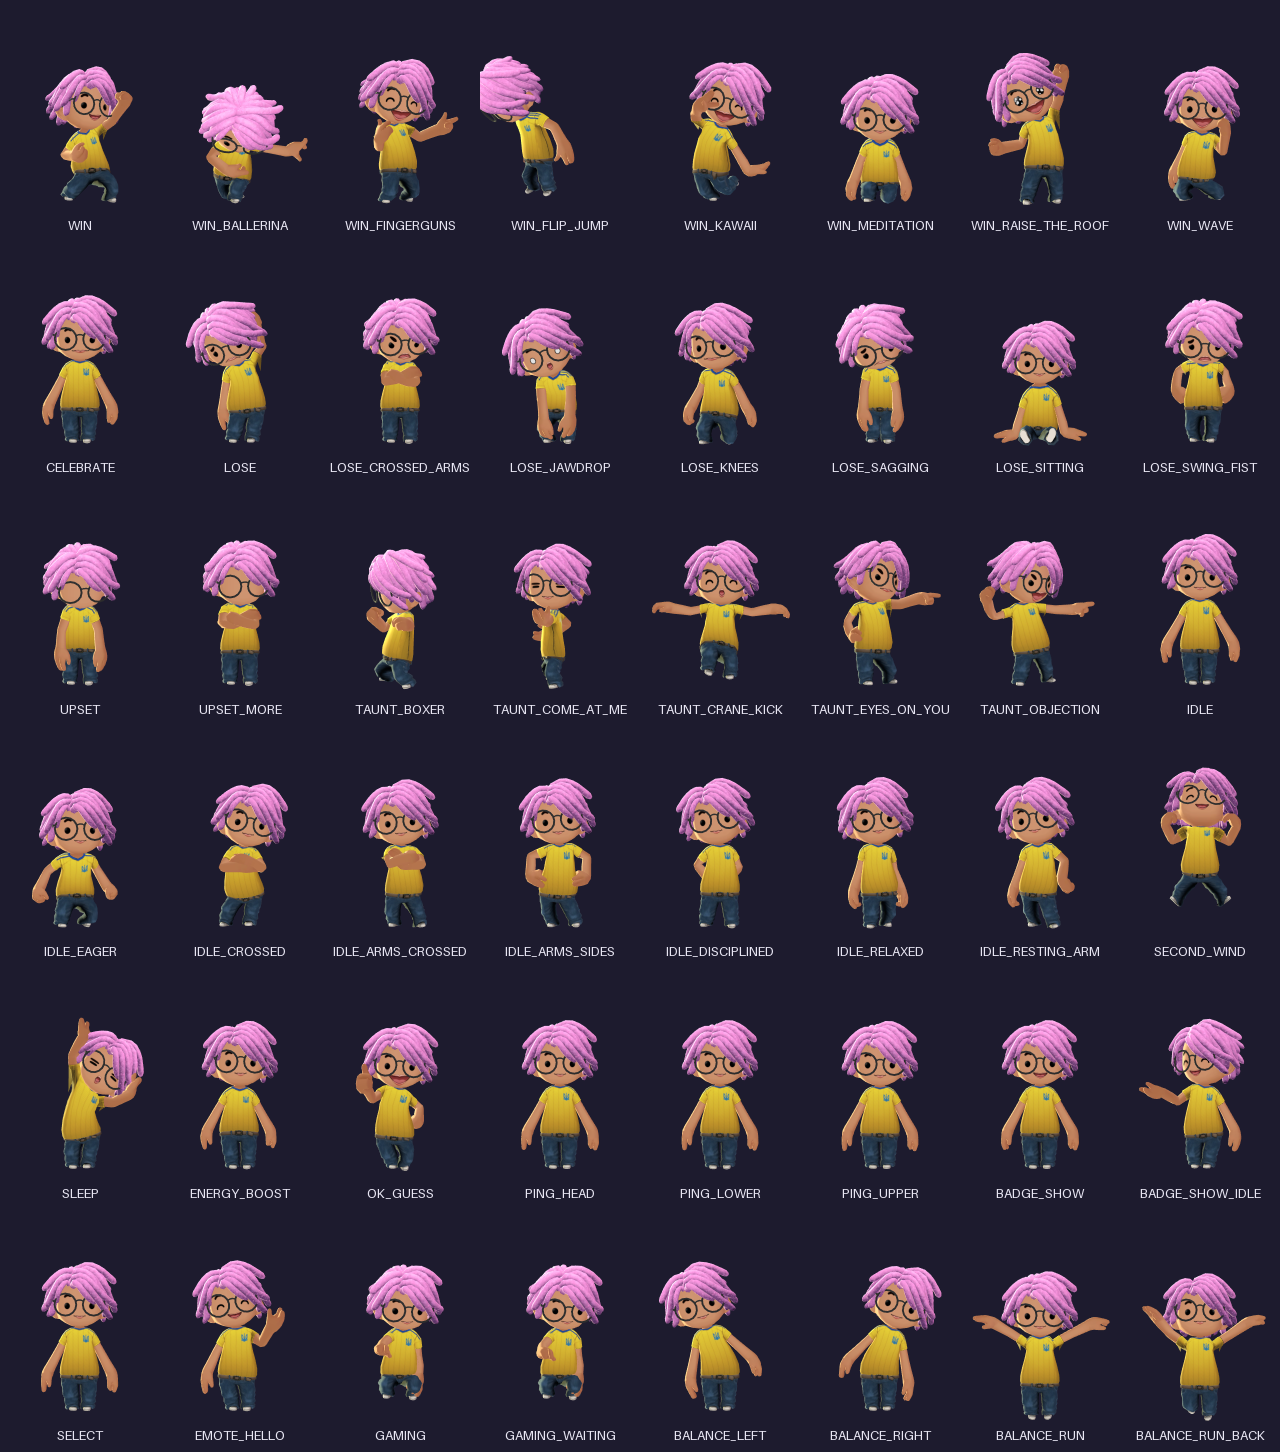
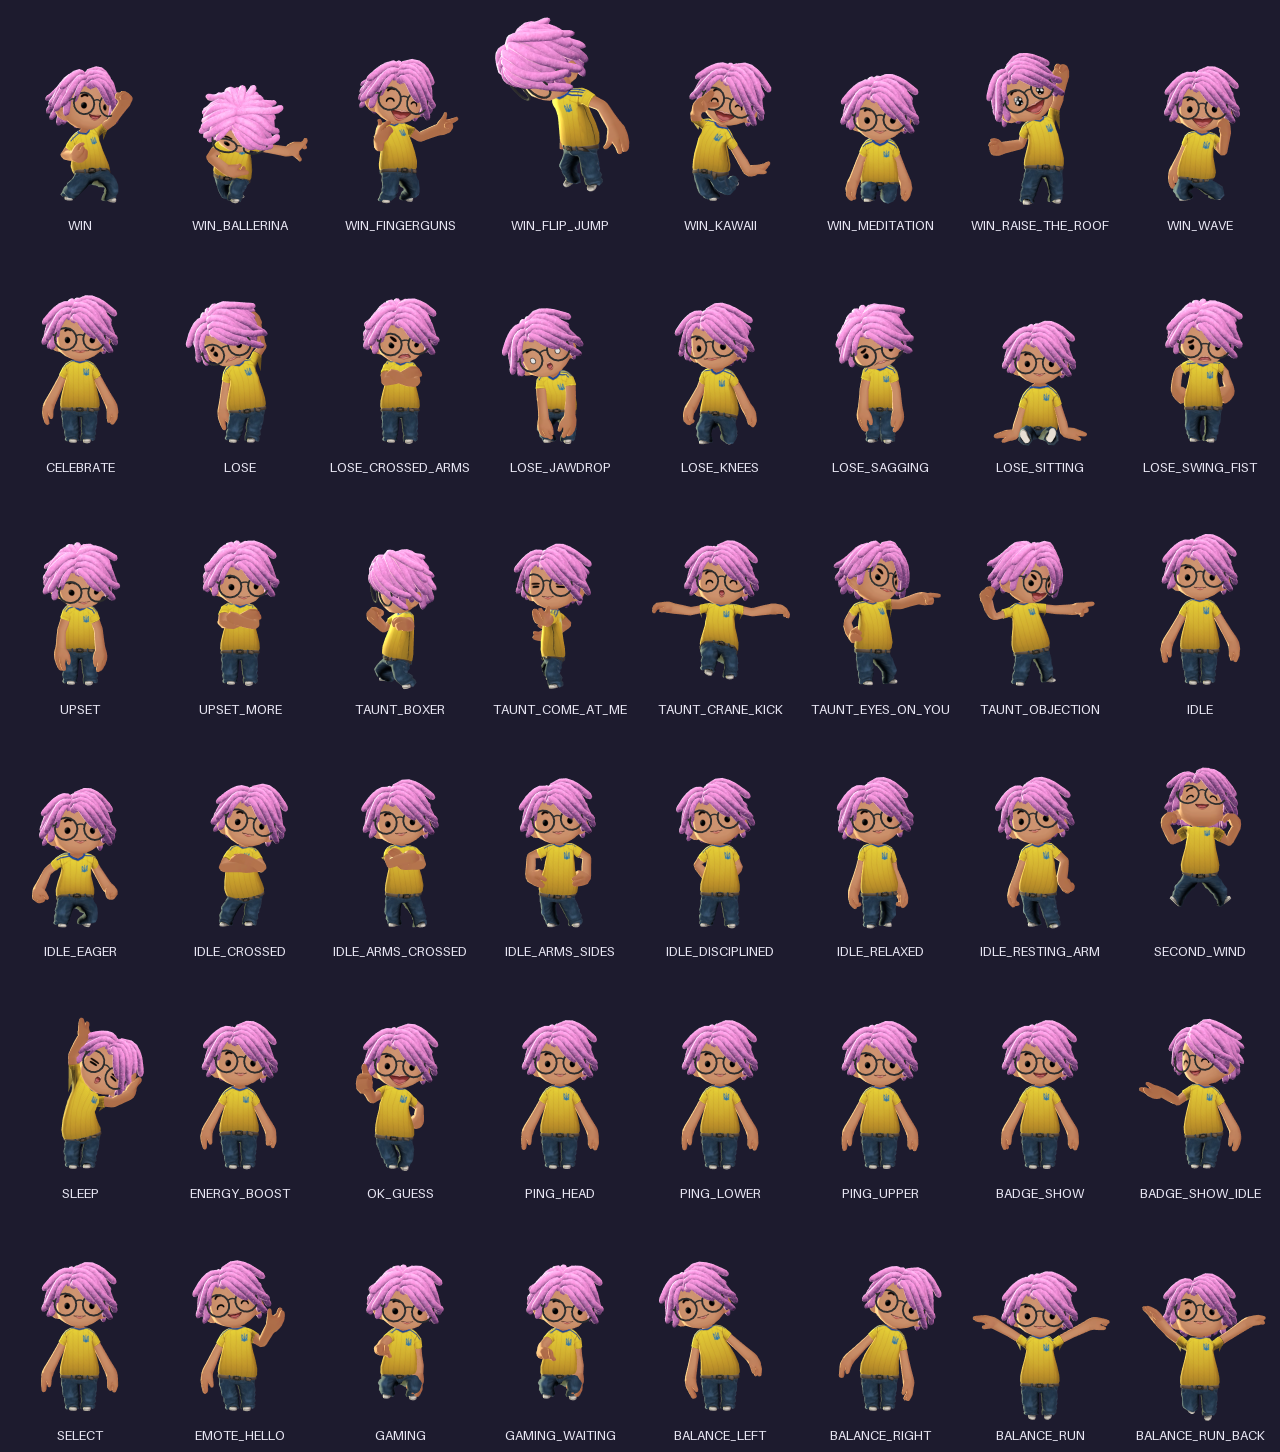
Fix blank faces in UPSET and UPSET_MORE
These two clips carry face-expression data from another rig: decoded, it
points ~54 cells outside the 8-cell eye/mouth sprite strips, so the face
rendered blank. Out-of-range offsets now fall back to the neutral face.
All other 46 built-in clips have valid face data.

The README gallery is regenerated with the fix, and WIN_FLIP_JUMP's tile
uses fit framing since the clip leaves the fixed frame mid-flip.

Claude-Session: https://claude.ai/code/session_01NMCpD3UDkpVkhmUTduVi11

Changed region(s): [[0.375, 0.0, 0.5, 0.155]]

diff --git a/src/geoguessr_avatar/web/avatar.js b/src/geoguessr_avatar/web/avatar.js
@@ -211,7 +211,10 @@ function faceOffsets(track, time) {
   const q = new THREE.Quaternion(v[4 * i], v[4 * i + 1], v[4 * i + 2], v[4 * i + 3]);
   const e = new THREE.Euler().setFromQuaternion(q);
   const step = (rad) => Math.round(8 * THREE.MathUtils.radToDeg(rad)) / 8;
-  return [step(e.x), step(e.y)];
+  // A few clips (UPSET, UPSET_MORE) carry face data from another rig that points far
+  // outside the 8-cell strips, which would render a blank face. Show the neutral one.
+  const cell = (offset) => (offset >= 0 && offset < 1 ? offset : 0);
+  return [cell(step(e.x)), cell(step(e.y))];
 }
 
 async function applyClip(spec, avatar) {

diff --git a/scripts/make_docs_images.py b/scripts/make_docs_images.py
@@ -52,7 +52,11 @@ def main() -> None:
         grid(hero, len(hero)).convert("RGB").save(DOCS / "hero.png", optimize=True)
 
         font = ImageFont.load_default(size=13)
-        gallery = [tile(renderer, n, (160, 213), n, font) for n in animations.BUILTIN_ANIMATIONS]
+        gallery = [
+            # WIN_FLIP_JUMP leaves the fixed frame mid-flip, so frame it tightly instead.
+            tile(renderer, n, (160, 213), n, font, framing="fit" if n == "WIN_FLIP_JUMP" else "fixed")
+            for n in animations.BUILTIN_ANIMATIONS
+        ]
         grid(gallery, 8).convert("RGB").save(DOCS / "animations.png", optimize=True)
     print(f"wrote {DOCS / 'hero.png'} and {DOCS / 'animations.png'}")
 
